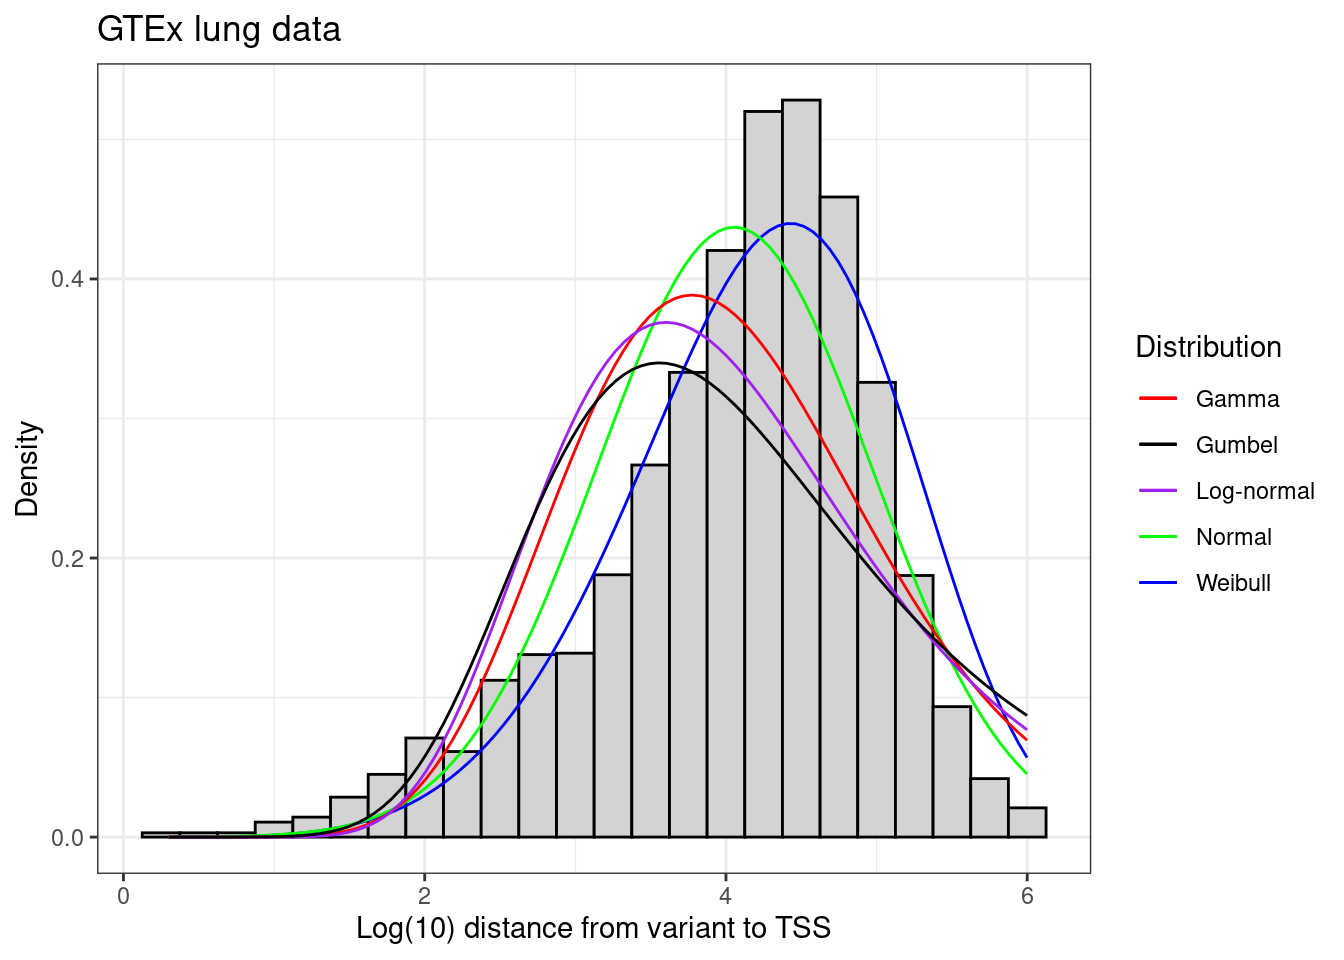
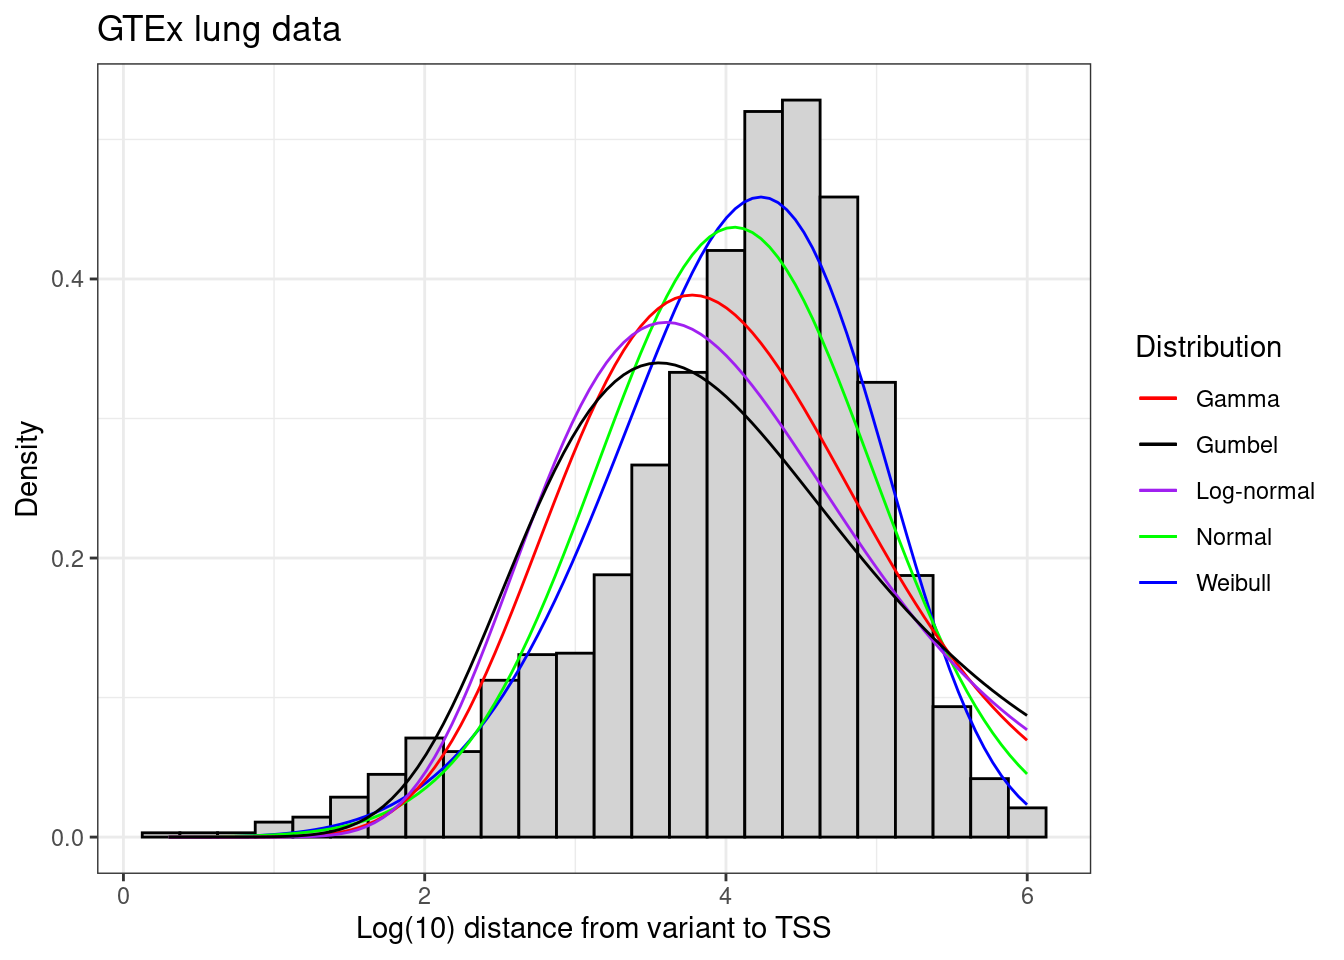
Built site for gh-pages

diff --git a/gtex-prior-estimation.html b/gtex-prior-estimation.html
@@ -306,25 +306,23 @@ pre > code.sourceCode > span > a:first-child::before { text-decoration: underlin
 <span id="cb5-36"><a href="#cb5-36" aria-hidden="true" tabindex="-1"></a>  <span class="fu">pluck</span>(<span class="st">"estimate"</span>) <span class="sc">|&gt;</span> </span>
 <span id="cb5-37"><a href="#cb5-37" aria-hidden="true" tabindex="-1"></a>  <span class="fu">as.list</span>()</span>
 <span id="cb5-38"><a href="#cb5-38" aria-hidden="true" tabindex="-1"></a></span>
-<span id="cb5-39"><a href="#cb5-39" aria-hidden="true" tabindex="-1"></a>test_weibull_param <span class="ot">&lt;-</span> <span class="fu">list</span>(<span class="at">shape =</span> <span class="fl">5.4</span> , <span class="at">scale =</span> <span class="fl">4.6</span>)</span>
-<span id="cb5-40"><a href="#cb5-40" aria-hidden="true" tabindex="-1"></a></span>
-<span id="cb5-41"><a href="#cb5-41" aria-hidden="true" tabindex="-1"></a>gtex_lung <span class="sc">|&gt;</span> </span>
-<span id="cb5-42"><a href="#cb5-42" aria-hidden="true" tabindex="-1"></a>  <span class="fu">ggplot</span>(<span class="fu">aes</span>(log10_dist)) <span class="sc">+</span> </span>
-<span id="cb5-43"><a href="#cb5-43" aria-hidden="true" tabindex="-1"></a>  <span class="fu">geom_histogram</span>(<span class="fu">aes</span>(<span class="at">y =</span> <span class="fu">after_stat</span>(density)), </span>
-<span id="cb5-44"><a href="#cb5-44" aria-hidden="true" tabindex="-1"></a>                 <span class="at">binwidth =</span> <span class="fl">0.25</span>, <span class="at">colour =</span> <span class="st">"black"</span>, <span class="at">fill =</span> <span class="st">"lightgrey"</span>) <span class="sc">+</span> </span>
-<span id="cb5-45"><a href="#cb5-45" aria-hidden="true" tabindex="-1"></a>  <span class="fu">geom_function</span>(<span class="fu">aes</span>(<span class="at">col =</span> <span class="st">"Weibull"</span>), <span class="at">fun =</span> dweibull, <span class="at">args =</span> test_weibull_param) <span class="sc">+</span></span>
-<span id="cb5-46"><a href="#cb5-46" aria-hidden="true" tabindex="-1"></a>  <span class="fu">geom_function</span>(<span class="fu">aes</span>(<span class="at">col =</span> <span class="st">"Normal"</span>), <span class="at">fun =</span> dnorm, <span class="at">args =</span> normal_param) <span class="sc">+</span></span>
-<span id="cb5-47"><a href="#cb5-47" aria-hidden="true" tabindex="-1"></a>  <span class="fu">geom_function</span>(<span class="fu">aes</span>(<span class="at">col =</span> <span class="st">"Gamma"</span>), <span class="at">fun =</span> dgamma, <span class="at">args =</span> gamma_param) <span class="sc">+</span></span>
-<span id="cb5-48"><a href="#cb5-48" aria-hidden="true" tabindex="-1"></a>  <span class="fu">geom_function</span>(<span class="fu">aes</span>(<span class="at">col =</span> <span class="st">"Log-normal"</span>), <span class="at">fun =</span> dlnorm, <span class="at">args =</span> lognormal_param) <span class="sc">+</span></span>
-<span id="cb5-49"><a href="#cb5-49" aria-hidden="true" tabindex="-1"></a>  <span class="fu">geom_function</span>(<span class="fu">aes</span>(<span class="at">col =</span> <span class="st">"Gumbel"</span>), <span class="at">fun =</span> dgumbel, <span class="at">args =</span> gumbel_param) <span class="sc">+</span></span>
-<span id="cb5-50"><a href="#cb5-50" aria-hidden="true" tabindex="-1"></a>  <span class="fu">scale_colour_manual</span>(<span class="at">values =</span> <span class="fu">c</span>(<span class="st">"red"</span>,<span class="st">"black"</span>,<span class="st">"purple"</span>, <span class="st">"green"</span>, <span class="st">"blue"</span>)) <span class="sc">+</span> </span>
-<span id="cb5-51"><a href="#cb5-51" aria-hidden="true" tabindex="-1"></a>  <span class="fu">labs</span>(</span>
-<span id="cb5-52"><a href="#cb5-52" aria-hidden="true" tabindex="-1"></a>    <span class="at">colour =</span> <span class="st">"Distribution"</span>,</span>
-<span id="cb5-53"><a href="#cb5-53" aria-hidden="true" tabindex="-1"></a>    <span class="at">y =</span> <span class="st">"Density"</span>, </span>
-<span id="cb5-54"><a href="#cb5-54" aria-hidden="true" tabindex="-1"></a>    <span class="at">x =</span> <span class="st">"Log(10) distance from variant to TSS"</span>,</span>
-<span id="cb5-55"><a href="#cb5-55" aria-hidden="true" tabindex="-1"></a>    <span class="at">title =</span> <span class="st">"GTEx lung data"</span></span>
-<span id="cb5-56"><a href="#cb5-56" aria-hidden="true" tabindex="-1"></a>  ) <span class="sc">+</span> </span>
-<span id="cb5-57"><a href="#cb5-57" aria-hidden="true" tabindex="-1"></a>  <span class="fu">theme_bw</span>() </span></code><button title="Copy to Clipboard" class="code-copy-button"><i class="bi"></i></button></pre></div>
+<span id="cb5-39"><a href="#cb5-39" aria-hidden="true" tabindex="-1"></a>gtex_lung <span class="sc">|&gt;</span> </span>
+<span id="cb5-40"><a href="#cb5-40" aria-hidden="true" tabindex="-1"></a>  <span class="fu">ggplot</span>(<span class="fu">aes</span>(log10_dist)) <span class="sc">+</span> </span>
+<span id="cb5-41"><a href="#cb5-41" aria-hidden="true" tabindex="-1"></a>  <span class="fu">geom_histogram</span>(<span class="fu">aes</span>(<span class="at">y =</span> <span class="fu">after_stat</span>(density)), </span>
+<span id="cb5-42"><a href="#cb5-42" aria-hidden="true" tabindex="-1"></a>                 <span class="at">binwidth =</span> <span class="fl">0.25</span>, <span class="at">colour =</span> <span class="st">"black"</span>, <span class="at">fill =</span> <span class="st">"lightgrey"</span>) <span class="sc">+</span> </span>
+<span id="cb5-43"><a href="#cb5-43" aria-hidden="true" tabindex="-1"></a>  <span class="fu">geom_function</span>(<span class="fu">aes</span>(<span class="at">col =</span> <span class="st">"Weibull"</span>), <span class="at">fun =</span> dweibull, <span class="at">args =</span> weibull_param) <span class="sc">+</span></span>
+<span id="cb5-44"><a href="#cb5-44" aria-hidden="true" tabindex="-1"></a>  <span class="fu">geom_function</span>(<span class="fu">aes</span>(<span class="at">col =</span> <span class="st">"Normal"</span>), <span class="at">fun =</span> dnorm, <span class="at">args =</span> normal_param) <span class="sc">+</span></span>
+<span id="cb5-45"><a href="#cb5-45" aria-hidden="true" tabindex="-1"></a>  <span class="fu">geom_function</span>(<span class="fu">aes</span>(<span class="at">col =</span> <span class="st">"Gamma"</span>), <span class="at">fun =</span> dgamma, <span class="at">args =</span> gamma_param) <span class="sc">+</span></span>
+<span id="cb5-46"><a href="#cb5-46" aria-hidden="true" tabindex="-1"></a>  <span class="fu">geom_function</span>(<span class="fu">aes</span>(<span class="at">col =</span> <span class="st">"Log-normal"</span>), <span class="at">fun =</span> dlnorm, <span class="at">args =</span> lognormal_param) <span class="sc">+</span></span>
+<span id="cb5-47"><a href="#cb5-47" aria-hidden="true" tabindex="-1"></a>  <span class="fu">geom_function</span>(<span class="fu">aes</span>(<span class="at">col =</span> <span class="st">"Gumbel"</span>), <span class="at">fun =</span> dgumbel, <span class="at">args =</span> gumbel_param) <span class="sc">+</span></span>
+<span id="cb5-48"><a href="#cb5-48" aria-hidden="true" tabindex="-1"></a>  <span class="fu">scale_colour_manual</span>(<span class="at">values =</span> <span class="fu">c</span>(<span class="st">"red"</span>,<span class="st">"black"</span>,<span class="st">"purple"</span>, <span class="st">"green"</span>, <span class="st">"blue"</span>)) <span class="sc">+</span> </span>
+<span id="cb5-49"><a href="#cb5-49" aria-hidden="true" tabindex="-1"></a>  <span class="fu">labs</span>(</span>
+<span id="cb5-50"><a href="#cb5-50" aria-hidden="true" tabindex="-1"></a>    <span class="at">colour =</span> <span class="st">"Distribution"</span>,</span>
+<span id="cb5-51"><a href="#cb5-51" aria-hidden="true" tabindex="-1"></a>    <span class="at">y =</span> <span class="st">"Density"</span>, </span>
+<span id="cb5-52"><a href="#cb5-52" aria-hidden="true" tabindex="-1"></a>    <span class="at">x =</span> <span class="st">"Log(10) distance from variant to TSS"</span>,</span>
+<span id="cb5-53"><a href="#cb5-53" aria-hidden="true" tabindex="-1"></a>    <span class="at">title =</span> <span class="st">"GTEx lung data"</span></span>
+<span id="cb5-54"><a href="#cb5-54" aria-hidden="true" tabindex="-1"></a>  ) <span class="sc">+</span> </span>
+<span id="cb5-55"><a href="#cb5-55" aria-hidden="true" tabindex="-1"></a>  <span class="fu">theme_bw</span>() </span></code><button title="Copy to Clipboard" class="code-copy-button"><i class="bi"></i></button></pre></div>
 <div class="cell-output-display">
 <p><img src="gtex-prior-estimation_files/figure-html/unnamed-chunk-4-1.png" class="img-fluid" width="672"></p>
 </div>
